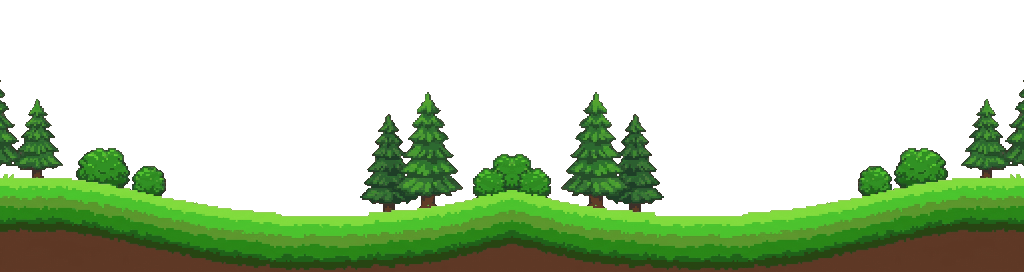
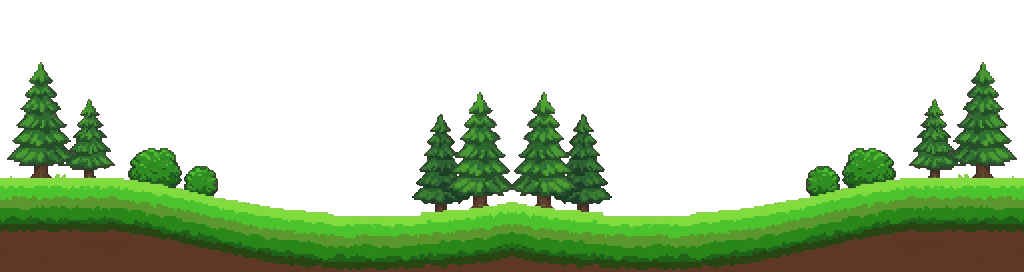
demos/wide: drop the trunkless tree at the wrap seam; fit the front tiles
The wide foreground was cropped from the middle of the source picture,
cutting a tree in half at the left edge; mirror_wrap reflected the half
onto itself as a trunkless tree split at the tip. The crop now starts at
x=12 so both edges fall in open sky.

The new crop needs 912 tiles (was 856), 16 more than fit below the back
map at $14000, so the back map overwrote the last 16 front tiles and the
bottom row of the full-frame view showed stripes of C64 colours 1-4.
The front tiles now start at $05400, after the 21 KB of back tiles.
parallax.s and wide.s assert that each tile set and map fits its VRAM
slot, so an overrun fails the build instead.

Changed region(s): [[0.0, 0.2353, 1.0, 1.0]]

diff --git a/tools/prep_art.py b/tools/prep_art.py
@@ -252,7 +252,9 @@ def main():
     front = key_magenta(load(raw, "parallax_front.jpg"))
     s = 272 / front.height
     front = shrink_rgba(front, round(front.width * s), 272)
-    x = (front.width - 512) // 2
+    # Both crop edges must fall in open sky: mirror_wrap reflects each edge onto
+    # itself, so a tree cut there becomes a trunkless tree split at the tip.
+    x = 12
     front = front.crop((x, 0, x + 512, 272))
     save(mirror_wrap(quantise(front, 96, False)), "parallax_front_wide.png")
 
